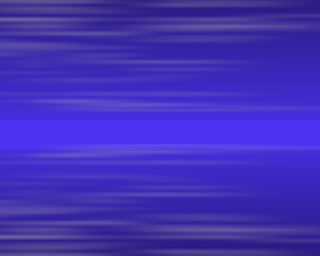
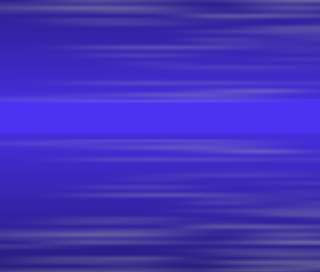
覚醒背景の位置がずれている不具合を修正した

diff --git a/client/scene/battleSceneBase.js b/client/scene/battleSceneBase.js
@@ -76,7 +76,7 @@ module.exports = function(spec,my){
         that.armdozerAbilityBack = scrollBackGround({
             pict : core.assets[core.PICT_WAKEUP_BACK]
         });
-        that.armdozerAbilityBack.y = 80;
+        that.armdozerAbilityBack.y = 64;
         that.armdozerAbilityBack.setVisible(false);
         that.armdozerAbilityBack.setOpacity(0.7);
         that.addChild(that.armdozerAbilityBack);

diff --git a/client/animation/scrollBackGround.js b/client/animation/scrollBackGround.js
@@ -1,9 +1,9 @@
 var scrollObject = require('./scrollObject');
 
-module.exports = function(spec,my) {
+module.exports = function(spec) {
     var that = new Group();
     var WIDTH = 320;
-    var HEIGHT = 256;
+    var HEIGHT = 272;
     var MAX_ARRAY = 2;
 
     var pict = spec.pict;
